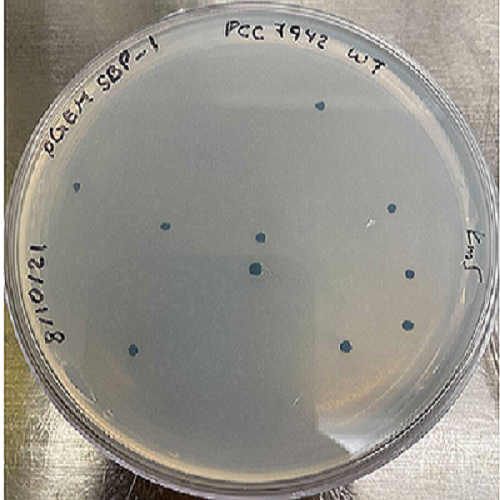
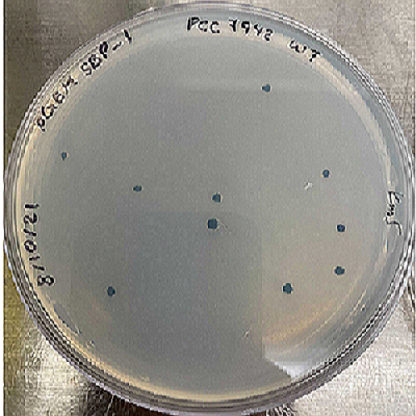
Made changes to Engineering photos. smaller size

diff --git a/src/pages/Engineering.html b/src/pages/Engineering.html
@@ -133,28 +133,28 @@
       is understandable because <em>glpX</em>, encoding SBPase, is considered an essential gene, so only very few copies
       could have the deletion without affecting the viability of the cell <reference identifier="53" />.
          
-          <span class="image"
+          <span class="image half-full-width right"
       ><img src="assets/images/engineering/figure-1.png" alt="Photo of testing." /><span
         class="credit"
         > Figure 1. km5+ from 8/10 with original PCC 7942 colonies transformed with pGEM-SBPase.
         </span
       ></span>
       
-      <span class="image"
+      <span class="image half-full-width right"
       ><img src="assets/images/engineering/figure-2.png" alt="Photo of testing." /><span
         class="credit"
         > Figure 2. km5+ from 8/23 with original colonies in quadrants 1-3 (with several transfers taken afterwards).
         </span
       ></span>
   
-      <span class="image"
+      <span class="image half-full-width right"
       ><img src="assets/images/engineering/figure-3.png" alt="Photo of testing." /><span
         class="credit"
         > Figure 3. gm2+ from 8/23 with original colonies in quadrants 1-3 (with several transfers taken afterwards).
         </span
       ></span>
   
-      <span class="image"
+      <span class="image half-full-width right"
       ><img src="assets/images/engineering/figure-4.png" alt="Photo of testing." /><span
         class="credit"
         > Figure 4. km5+ from 9/9 with dilution series of colony #3 (km5+ 8/30) on quadrants 1-11.
